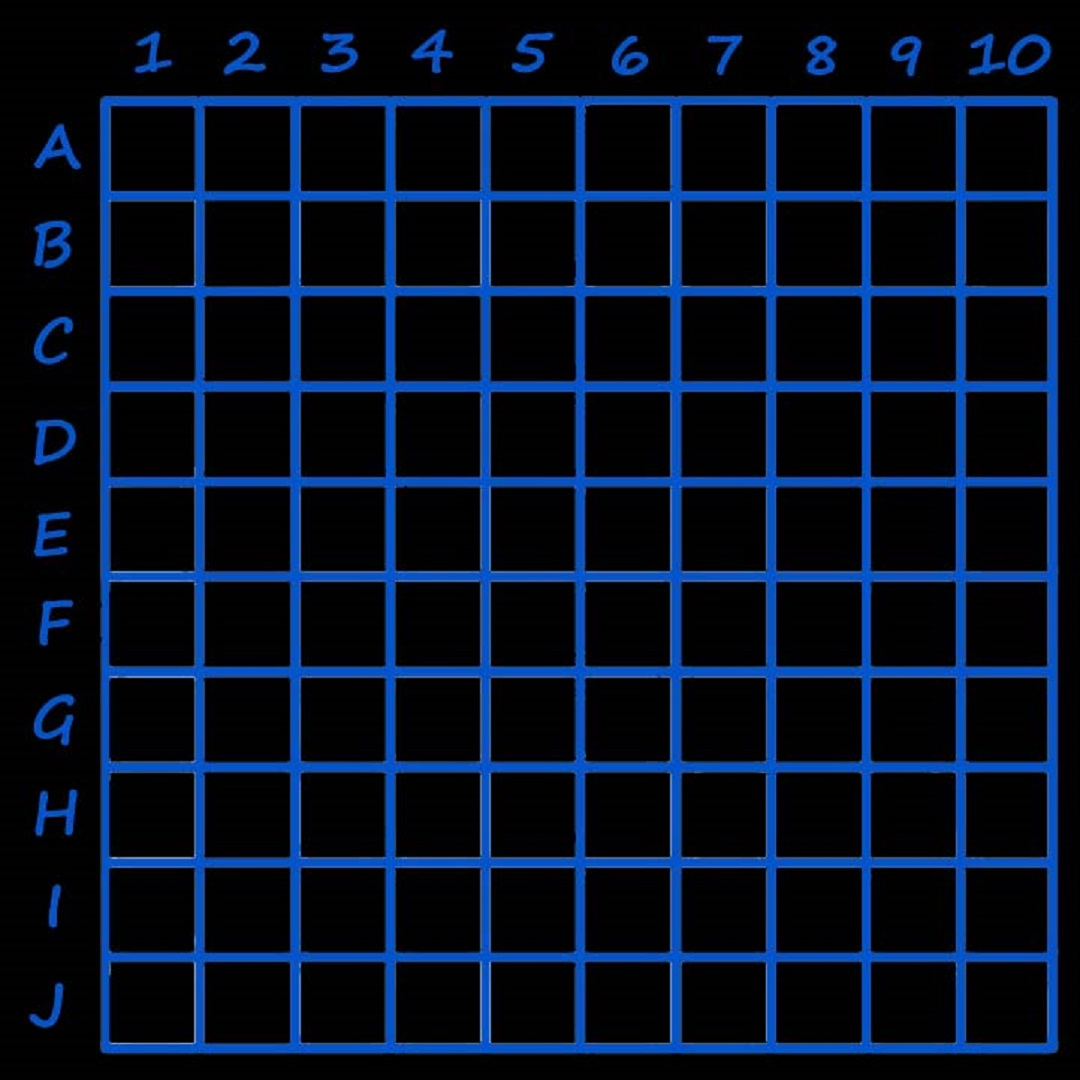
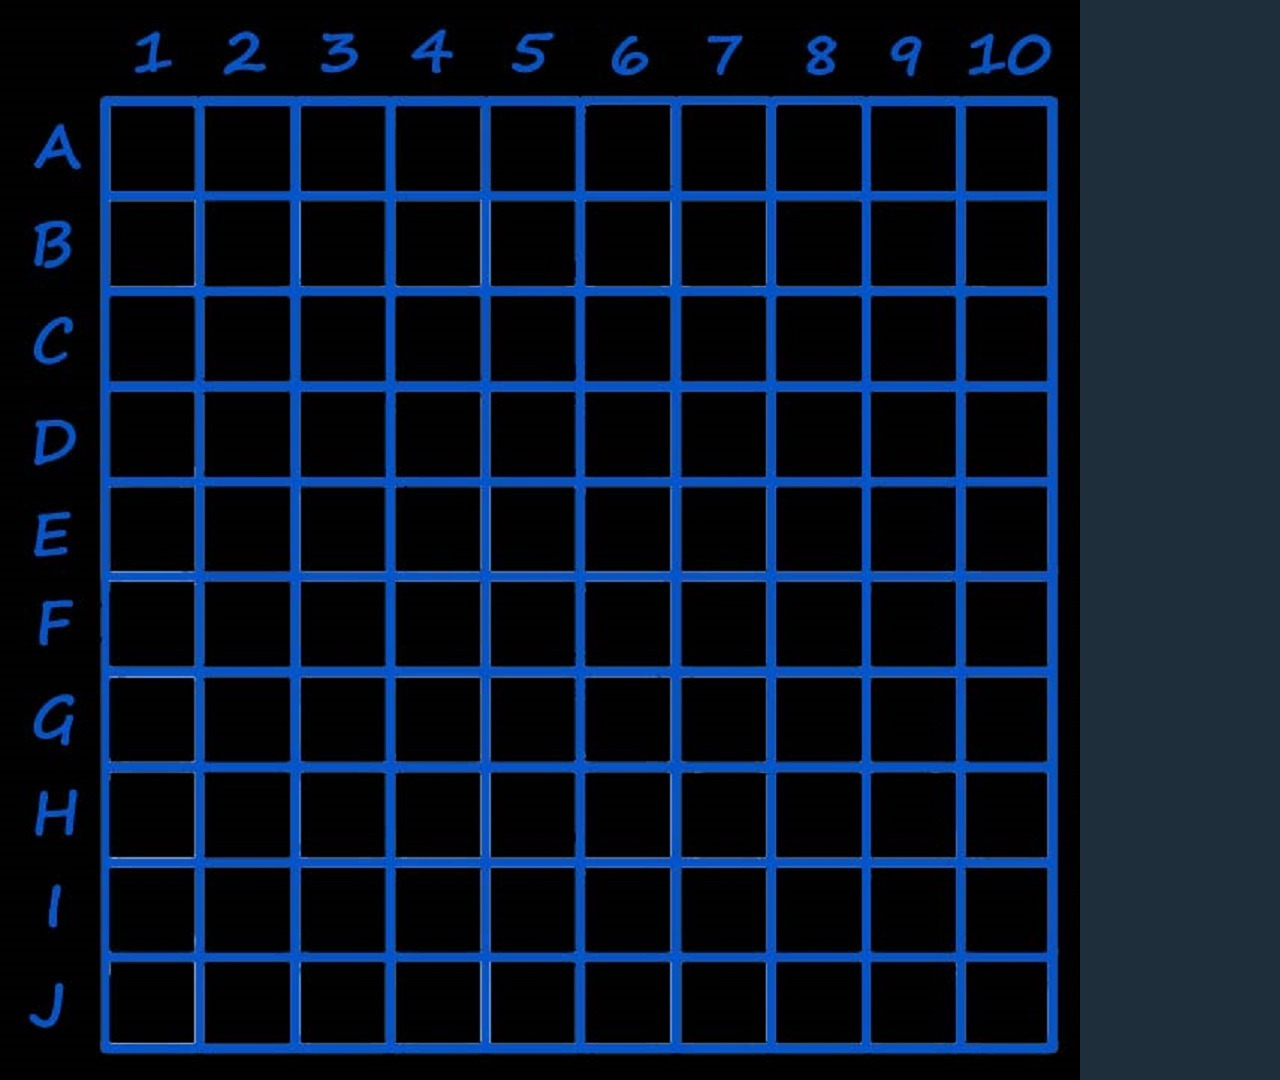
Decided to scrap tray for Battleship, as it caused more harm than good. Now to fix peg spawning

diff --git a/src/Board.java b/src/Board.java
@@ -29,7 +29,7 @@ public class Board {
     public BoardPanel player1Board;
     public BoardPanel player2Board;
 
-    //These two are for Battleship, they keep a hold of the pegs on the side of the board.
+    //These two are for Settlers, they hold player cards.
     public JPanel player1Tray;
     public JPanel player2Tray;
     // JFrame to store the board and display it
@@ -190,23 +190,14 @@ public class Board {
         disp.setSize(1280, 1024);
         disp.setUndecorated(true);
         disp.setExtendedState(JFrame.MAXIMIZED_BOTH);
-        player1Tray = new JPanel();
-        player2Tray = new JPanel();
-        player1Tray.setPreferredSize(new Dimension(256, 1024));
-        player2Tray.setPreferredSize(new Dimension(256, 1024));
-        Color battleshipGrey = new Color(31,46,59);
-        player1Tray.setBackground(battleshipGrey);
-        player2Tray.setBackground(battleshipGrey);
 
-        // Mixing it up, and will probably implement in Settlers - this just seems like a better
-        // solution
+        // Create the necessary panels
         this.player1View = new JFrame();
-        player1View.setLayout(new BoxLayout(player1View.getContentPane(), BoxLayout.X_AXIS));
         player1View.setSize(1280, 1024);
         player1View.setUndecorated(true);
         player1View.setExtendedState(JFrame.MAXIMIZED_BOTH);
         this.player2View = new JFrame();
-        player2View.setLayout(new BoxLayout(player2View.getContentPane(), BoxLayout.X_AXIS));
+        player2View.setLayout(new BorderLayout());
         player2View.setSize(1280, 1024);
         player2View.setUndecorated(true);
         player2View.setExtendedState(JFrame.MAXIMIZED_BOTH);
@@ -219,20 +210,17 @@ public class Board {
         try {
 
             player1Board = new BoardPanel(createImageIcon("playerview1.png", "player 1 view"));
-            player2Board = new BoardPanel(createImageIcon("playerview2.png", "player 2 view"));
-            player1Board.setPreferredSize(new Dimension(1024, 1024));
-            player2Board.setPreferredSize(new Dimension(1024, 1024));
-            player1View.add(player1Board);
-            player2View.add(player2Board);
+            player2Board = new BoardPanel(createImageIcon("playerview1.png", "player 2 view"));
+            player1Board.setPreferredSize(new Dimension(1280, 1024));
+            player2Board.setPreferredSize(new Dimension(1280, 1024));
+            player1View.add(player1Board, BorderLayout.CENTER);
+            player2View.add(player2Board, BorderLayout.CENTER);
 
         } catch (Exception e) {
             System.out.println(e);
             System.out.println("Apparently Battleship2 doesn't exist");
         }
         disp.add(gameWindow);
-        player1View.add(player1Tray);
-        player2View.add(player2Tray);
-
         player1View.setLocation(0, -1024);
         disp.setLocation(0, 0);
         player2View.setLocation(0, 1024);
@@ -422,14 +410,8 @@ class BoardPanel extends JPanel {
         Graphics2D graphic = (Graphics2D) g;
 
         if (board != null) {
-            if (board.getDescription().contains("player")) {
-                graphic.clearRect(0, 0, 1024, 1024);
-                graphic.drawImage(board.getImage(), 0, 0, 1024,1024, this);
-            } else {
                 graphic.clearRect(0, 0, 1024, 1024);
                 graphic.drawImage(board.getImage(), 0, 0, 1280, 1024, this);
-            }
-
         }
     }
 }

diff --git a/src/Battleship.java b/src/Battleship.java
@@ -1,3 +1,4 @@
+import java.awt.*;
 import java.util.Arrays;
 import java.util.Collections;
 import java.util.LinkedList;
@@ -26,10 +27,14 @@ public class Battleship extends Game {
         display();
     }
 
+    /**
+     * Displays all components for Battleship
+     */
     @Override
     public void display() {
         board.display();
-        Collections.reverse(pieces);
+//        Collections.reverse(pieces);
+        int j = 0;
         for (Piece i: pieces) {
             PiecePanel visual = new PiecePanel(i);
             if (visual.isShip(i)) {
@@ -40,17 +45,21 @@ public class Battleship extends Game {
                     board.player2Board.add(visual);
                 }
             } else {
+
                 if (i.getOwner()) {
-                    board.player1Tray.add(visual);
+                    board.player1Board.add(visual);
                 } else {
-                    board.player2Tray.add(visual);
+                    board.player2Board.add(visual);
                 }
-                visual.overbearing = true;
+                j+=40;
             }
 
         }
     }
 
+    /**
+     * Fills the list of ships for Battleship
+     */
     private void fillShips () {
         for (String i : ships) {
             Piece piece = new Piece(0, 0, true, i);
